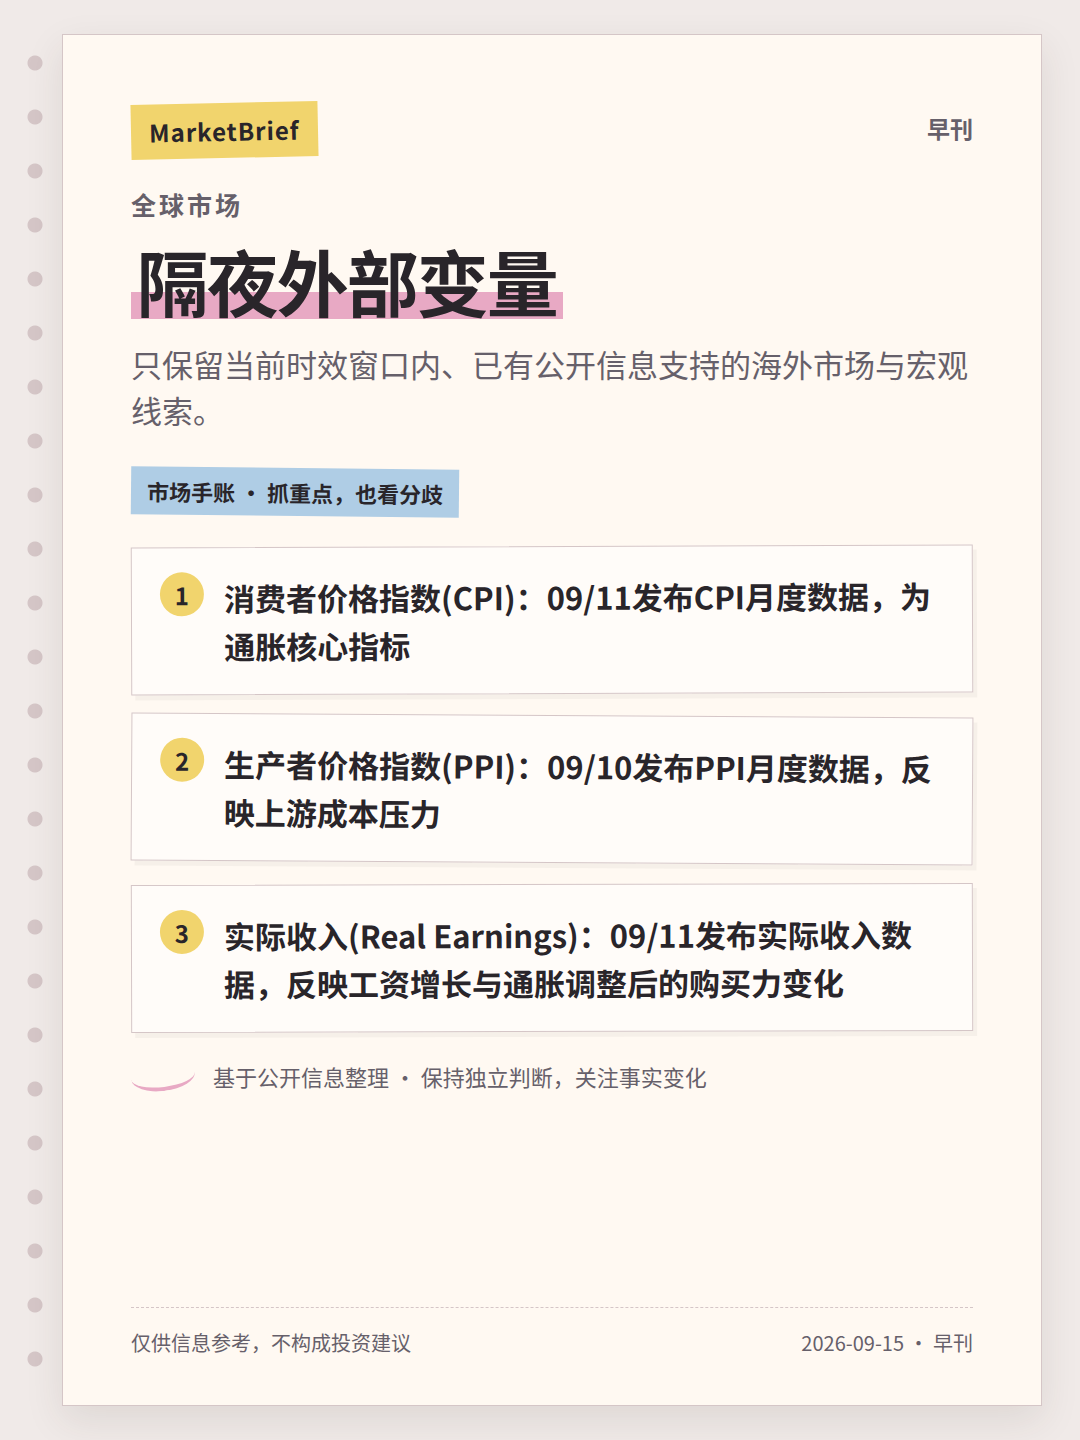
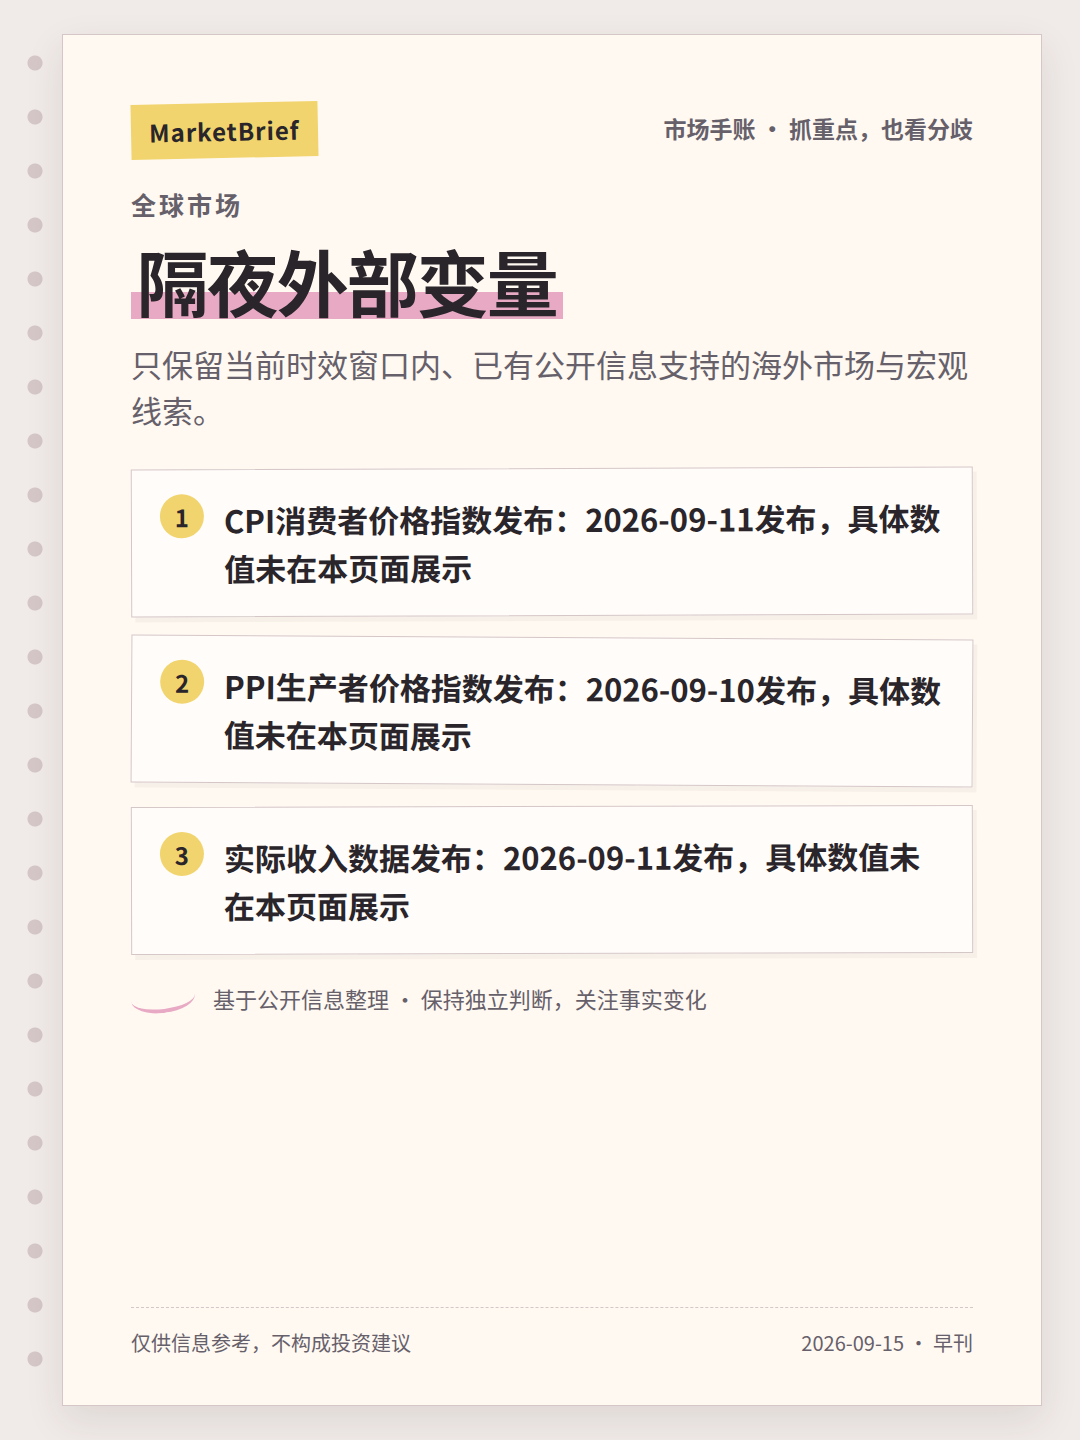
MarketBrief: publish official-source notebook edition

diff --git a/output/marketbrief/2026-09-15/am/2026-09-15-am-01.html b/output/marketbrief/2026-09-15/am/2026-09-15-am-01.html
@@ -22,12 +22,11 @@ h1 span{background:linear-gradient(transparent 62%,#E8A9C4 62% 88%,transparent 8
 footer{position:absolute;z-index:1;left:68px;right:68px;bottom:48px;border-top:1px dashed #D5C6C7;padding-top:20px;display:flex;justify-content:space-between;gap:20px;color:#66606A;font-size:20px}
 </style></head>
 <body><main>
-<div class="top"><span class="tape">MarketBrief</span><span class="edition">早刊</span></div>
+<div class="top"><span class="tape">MarketBrief</span><span class="edition">市场手账 · 抓重点，也看分歧</span></div>
 <div class="kicker">今日简报</div>
-<h1><span>美股周观点：9月加息成为市场焦点</span></h1>
-<div class="sub">早刊基于3份有效来源分析，当前重点为美股周观点：9月加息。仅保留时效合格的公开信息，事实、研究观点与市场情绪分开呈现。</div>
-<div class="ribbon">市场手账 · 抓重点，也看分歧</div>
-<div class="notes"><section class="note"><b>1</b><p>每周投资早参：市场受外部因素影响出现调整，后市或逐步进入震荡低吸周期</p></section><section class="note"><b>2</b><p>美股周观点：9月加息？未必是最大的风险</p></section><section class="note"><b>3</b><p>策略跟踪报告：跨境型ETF资金净流入规模环比明显提升</p></section></div>
+<h1><span>金元晨报成为市场焦点</span></h1>
+<div class="sub">早刊基于3份有效来源分析，当前重点为金元晨报。仅保留时效合格的公开信息，事实、研究观点与市场情绪分开呈现。</div>
+<div class="notes"><section class="note"><b>1</b><p>北交所定期报告：沙特要求推迟有关霍尔木兹海峡会议，全球首个人工智能+脑机接口标准发布</p></section><section class="note"><b>2</b><p>行业轮动ETF策略周报</p></section><section class="note"><b>3</b><p>金元晨报</p></section></div>
 <div class="margin"><span class="sketch"></span><span>基于公开信息整理 · 保持独立判断，关注事实变化</span></div>
 <footer><span>仅供信息参考，不构成投资建议</span><span>2026-09-15 · 早刊</span></footer>
 </main></body></html>

diff --git a/output/marketbrief/2026-09-15/am/2026-09-15-am-06.html b/output/marketbrief/2026-09-15/am/2026-09-15-am-06.html
@@ -22,12 +22,11 @@ h1 span{background:linear-gradient(transparent 62%,#E8A9C4 62% 88%,transparent 8
 footer{position:absolute;z-index:1;left:68px;right:68px;bottom:48px;border-top:1px dashed #D5C6C7;padding-top:20px;display:flex;justify-content:space-between;gap:20px;color:#66606A;font-size:20px}
 </style></head>
 <body><main>
-<div class="top"><span class="tape">MarketBrief</span><span class="edition">早刊</span></div>
+<div class="top"><span class="tape">MarketBrief</span><span class="edition">市场手账 · 抓重点，也看分歧</span></div>
 <div class="kicker">风险提示</div>
 <h1><span>后续变量仍需确认</span></h1>
 <div class="sub">只保留来源自身限制和当前证据中的风险项，不额外推演。</div>
-<div class="ribbon">市场手账 · 抓重点，也看分歧</div>
-<div class="notes"><section class="note"><b>1</b><p>页面为导航索引页，仅含发布标题与日期，无具体数据数值，无法提取通胀率、工资涨幅等关键指标</p></section><section class="note"><b>2</b><p>部分社区信息存在时效性不足，过期内容已从当前证据中剔除。</p></section><section class="note"><b>3</b><p>页面未包含就业报告(JOLTS/非农)等其他关键BLS指标，可能已发布但未被截取</p></section></div>
+<div class="notes"><section class="note"><b>1</b><p>页面为导航索引页，仅列出发布标题与日期，未包含任何具体数据数值或分析内容</p></section><section class="note"><b>2</b><p>部分社区信息存在时效性不足，过期内容已从当前证据中剔除。</p></section><section class="note"><b>3</b><p>如需具体CPI/PPI数值及同比环比数据，需访问各发布原文页面</p></section></div>
 <div class="margin"><span class="sketch"></span><span>基于公开信息整理 · 保持独立判断，关注事实变化</span></div>
 <footer><span>仅供信息参考，不构成投资建议</span><span>2026-09-15 · 早刊</span></footer>
 </main></body></html>

diff --git a/output/marketbrief/2026-09-15/am/2026-09-15-am-02.html b/output/marketbrief/2026-09-15/am/2026-09-15-am-02.html
@@ -22,12 +22,11 @@ h1 span{background:linear-gradient(transparent 62%,#E8A9C4 62% 88%,transparent 8
 footer{position:absolute;z-index:1;left:68px;right:68px;bottom:48px;border-top:1px dashed #D5C6C7;padding-top:20px;display:flex;justify-content:space-between;gap:20px;color:#66606A;font-size:20px}
 </style></head>
 <body><main>
-<div class="top"><span class="tape">MarketBrief</span><span class="edition">早刊</span></div>
+<div class="top"><span class="tape">MarketBrief</span><span class="edition">市场手账 · 抓重点，也看分歧</span></div>
 <div class="kicker">全球市场</div>
 <h1><span>隔夜外部变量</span></h1>
 <div class="sub">只保留当前时效窗口内、已有公开信息支持的海外市场与宏观线索。</div>
-<div class="ribbon">市场手账 · 抓重点，也看分歧</div>
-<div class="notes"><section class="note"><b>1</b><p>消费者价格指数(CPI)：09/11发布CPI月度数据，为通胀核心指标</p></section><section class="note"><b>2</b><p>生产者价格指数(PPI)：09/10发布PPI月度数据，反映上游成本压力</p></section><section class="note"><b>3</b><p>实际收入(Real Earnings)：09/11发布实际收入数据，反映工资增长与通胀调整后的购买力变化</p></section></div>
+<div class="notes"><section class="note"><b>1</b><p>CPI消费者价格指数发布：2026-09-11发布，具体数值未在本页面展示</p></section><section class="note"><b>2</b><p>PPI生产者价格指数发布：2026-09-10发布，具体数值未在本页面展示</p></section><section class="note"><b>3</b><p>实际收入数据发布：2026-09-11发布，具体数值未在本页面展示</p></section></div>
 <div class="margin"><span class="sketch"></span><span>基于公开信息整理 · 保持独立判断，关注事实变化</span></div>
 <footer><span>仅供信息参考，不构成投资建议</span><span>2026-09-15 · 早刊</span></footer>
 </main></body></html>

diff --git a/output/marketbrief/2026-09-15/am/2026-09-15-am-05.html b/output/marketbrief/2026-09-15/am/2026-09-15-am-05.html
@@ -22,12 +22,11 @@ h1 span{background:linear-gradient(transparent 62%,#E8A9C4 62% 88%,transparent 8
 footer{position:absolute;z-index:1;left:68px;right:68px;bottom:48px;border-top:1px dashed #D5C6C7;padding-top:20px;display:flex;justify-content:space-between;gap:20px;color:#66606A;font-size:20px}
 </style></head>
 <body><main>
-<div class="top"><span class="tape">MarketBrief</span><span class="edition">早刊</span></div>
+<div class="top"><span class="tape">MarketBrief</span><span class="edition">市场手账 · 抓重点，也看分歧</span></div>
 <div class="kicker">事实分歧</div>
 <h1><span>事实、观点与情绪分开看</span></h1>
 <div class="sub">先看已确认事实，再看研究判断和市场情绪是否一致。</div>
-<div class="ribbon">市场手账 · 抓重点，也看分歧</div>
-<div class="notes"><section class="note"><b>1</b><p>消费者价格指数(CPI)：09/11发布CPI月度数据，为通胀核心指标</p></section><section class="note"><b>2</b><p>每周投资早参：市场受外部因素影响出现调整，后市或逐步进入震荡低吸周期</p></section><section class="note"><b>3</b><p>继续观察公开信息变化，避免仅凭单一信号下结论。</p></section></div>
+<div class="notes"><section class="note"><b>1</b><p>CPI消费者价格指数发布：2026-09-11发布，具体数值未在本页面展示</p></section><section class="note"><b>2</b><p>北交所定期报告：沙特要求推迟有关霍尔木兹海峡会议，全球首个人工智能+脑机接口标准发布</p></section><section class="note"><b>3</b><p>继续观察公开信息变化，避免仅凭单一信号下结论。</p></section></div>
 <div class="margin"><span class="sketch"></span><span>基于公开信息整理 · 保持独立判断，关注事实变化</span></div>
 <footer><span>仅供信息参考，不构成投资建议</span><span>2026-09-15 · 早刊</span></footer>
 </main></body></html>

diff --git a/output/marketbrief/2026-09-15/am/2026-09-15-am-04.html b/output/marketbrief/2026-09-15/am/2026-09-15-am-04.html
@@ -22,12 +22,11 @@ h1 span{background:linear-gradient(transparent 62%,#E8A9C4 62% 88%,transparent 8
 footer{position:absolute;z-index:1;left:68px;right:68px;bottom:48px;border-top:1px dashed #D5C6C7;padding-top:20px;display:flex;justify-content:space-between;gap:20px;color:#66606A;font-size:20px}
 </style></head>
 <body><main>
-<div class="top"><span class="tape">MarketBrief</span><span class="edition">早刊</span></div>
+<div class="top"><span class="tape">MarketBrief</span><span class="edition">市场手账 · 抓重点，也看分歧</span></div>
 <div class="kicker">热点追踪</div>
 <h1><span>主线与事件交叉验证</span></h1>
 <div class="sub">优先采用官方与研究信息，社区热度只作为辅助信号。</div>
-<div class="ribbon">市场手账 · 抓重点，也看分歧</div>
-<div class="notes"><section class="note"><b>1</b><p>雇主员工成本(ECCEC)：09/09发布雇主员工成本指数，涵盖工资与福利支出趋势</p></section><section class="note"><b>2</b><p>每周投资早参：市场受外部因素影响出现调整，后市或逐步进入震荡低吸周期</p></section><section class="note"><b>3</b><p>美股周观点：9月加息？未必是最大的风险</p></section></div>
+<div class="notes"><section class="note"><b>1</b><p>雇主员工成本指数发布：2026-09-09发布，具体数值未在本页面展示</p></section><section class="note"><b>2</b><p>北交所定期报告：沙特要求推迟有关霍尔木兹海峡会议，全球首个人工智能+脑机接口标准发布</p></section><section class="note"><b>3</b><p>行业轮动ETF策略周报</p></section></div>
 <div class="margin"><span class="sketch"></span><span>基于公开信息整理 · 保持独立判断，关注事实变化</span></div>
 <footer><span>仅供信息参考，不构成投资建议</span><span>2026-09-15 · 早刊</span></footer>
 </main></body></html>

diff --git a/output/marketbrief/2026-09-15/am/2026-09-15-am-03.html b/output/marketbrief/2026-09-15/am/2026-09-15-am-03.html
@@ -22,11 +22,10 @@ h1 span{background:linear-gradient(transparent 62%,#E8A9C4 62% 88%,transparent 8
 footer{position:absolute;z-index:1;left:68px;right:68px;bottom:48px;border-top:1px dashed #D5C6C7;padding-top:20px;display:flex;justify-content:space-between;gap:20px;color:#66606A;font-size:20px}
 </style></head>
 <body><main>
-<div class="top"><span class="tape">MarketBrief</span><span class="edition">早刊</span></div>
+<div class="top"><span class="tape">MarketBrief</span><span class="edition">市场手账 · 抓重点，也看分歧</span></div>
 <div class="kicker">市场概览</div>
 <h1><span>A股结构与资金</span></h1>
 <div class="sub">当前来源未形成足够完整的A股量价事实，不对指数和成交数据做推测。</div>
-<div class="ribbon">市场手账 · 抓重点，也看分歧</div>
 <div class="notes"><section class="note"><b>1</b><p>继续观察公开信息变化，避免仅凭单一信号下结论。</p></section><section class="note"><b>2</b><p>继续观察公开信息变化，避免仅凭单一信号下结论。</p></section><section class="note"><b>3</b><p>继续观察公开信息变化，避免仅凭单一信号下结论。</p></section></div>
 <div class="margin"><span class="sketch"></span><span>基于公开信息整理 · 保持独立判断，关注事实变化</span></div>
 <footer><span>仅供信息参考，不构成投资建议</span><span>2026-09-15 · 早刊</span></footer>

diff --git a/output/marketbrief/2026-09-15/am/brief.md b/output/marketbrief/2026-09-15/am/brief.md
@@ -1,14 +1,14 @@
-# 美股周观点：9月加息成为市场焦点
+# 金元晨报成为市场焦点
 
-> 早刊基于3份有效来源分析，当前重点为美股周观点：9月加息。仅保留时效合格的公开信息，事实、研究观点与市场情绪分开呈现。
+> 早刊基于3份有效来源分析，当前重点为金元晨报。仅保留时效合格的公开信息，事实、研究观点与市场情绪分开呈现。
 
 ## 隔夜外部变量
 
 只保留当前时效窗口内、已有公开信息支持的海外市场与宏观线索。
 
-- 消费者价格指数(CPI)：09/11发布CPI月度数据，为通胀核心指标
-- 生产者价格指数(PPI)：09/10发布PPI月度数据，反映上游成本压力
-- 实际收入(Real Earnings)：09/11发布实际收入数据，反映工资增长与通胀调整后的购买力变化
+- CPI消费者价格指数发布：2026-09-11发布，具体数值未在本页面展示
+- PPI生产者价格指数发布：2026-09-10发布，具体数值未在本页面展示
+- 实际收入数据发布：2026-09-11发布，具体数值未在本页面展示
 
 ## A股结构与资金
 
@@ -19,24 +19,24 @@
 
 优先采用官方与研究信息，社区热度只作为辅助信号。
 
-- 雇主员工成本(ECCEC)：09/09发布雇主员工成本指数，涵盖工资与福利支出趋势
-- 每周投资早参：市场受外部因素影响出现调整，后市或逐步进入震荡低吸周期
-- 美股周观点：9月加息？未必是最大的风险
+- 雇主员工成本指数发布：2026-09-09发布，具体数值未在本页面展示
+- 北交所定期报告：沙特要求推迟有关霍尔木兹海峡会议，全球首个人工智能+脑机接口标准发布
+- 行业轮动ETF策略周报
 
 ## 事实、观点与情绪分开看
 
 先看已确认事实，再看研究判断和市场情绪是否一致。
 
-- 消费者价格指数(CPI)：09/11发布CPI月度数据，为通胀核心指标
-- 每周投资早参：市场受外部因素影响出现调整，后市或逐步进入震荡低吸周期
+- CPI消费者价格指数发布：2026-09-11发布，具体数值未在本页面展示
+- 北交所定期报告：沙特要求推迟有关霍尔木兹海峡会议，全球首个人工智能+脑机接口标准发布
 
 ## 后续变量仍需确认
 
 只保留来源自身限制和当前证据中的风险项，不额外推演。
 
-- 页面为导航索引页，仅含发布标题与日期，无具体数据数值，无法提取通胀率、工资涨幅等关键指标
+- 页面为导航索引页，仅列出发布标题与日期，未包含任何具体数据数值或分析内容
 - 部分社区信息存在时效性不足，过期内容已从当前证据中剔除。
-- 页面未包含就业报告(JOLTS/非农)等其他关键BLS指标，可能已发布但未被截取
+- 如需具体CPI/PPI数值及同比环比数据，需访问各发布原文页面
 
 ## 信息口径
 
@@ -47,5 +47,5 @@
 本文仅作公开信息整理与讨论，不构成任何投资建议。
 
 刊期：2026-09-15 早刊  
-生成时间：2026-09-15T06:56:34+08:00  
-模型：`SenseNova` · 调用 4 次 · Token 8046
+生成时间：2026-09-15T07:53:42+08:00  
+模型：`SenseNova` · 调用 3 次 · Token 5304
